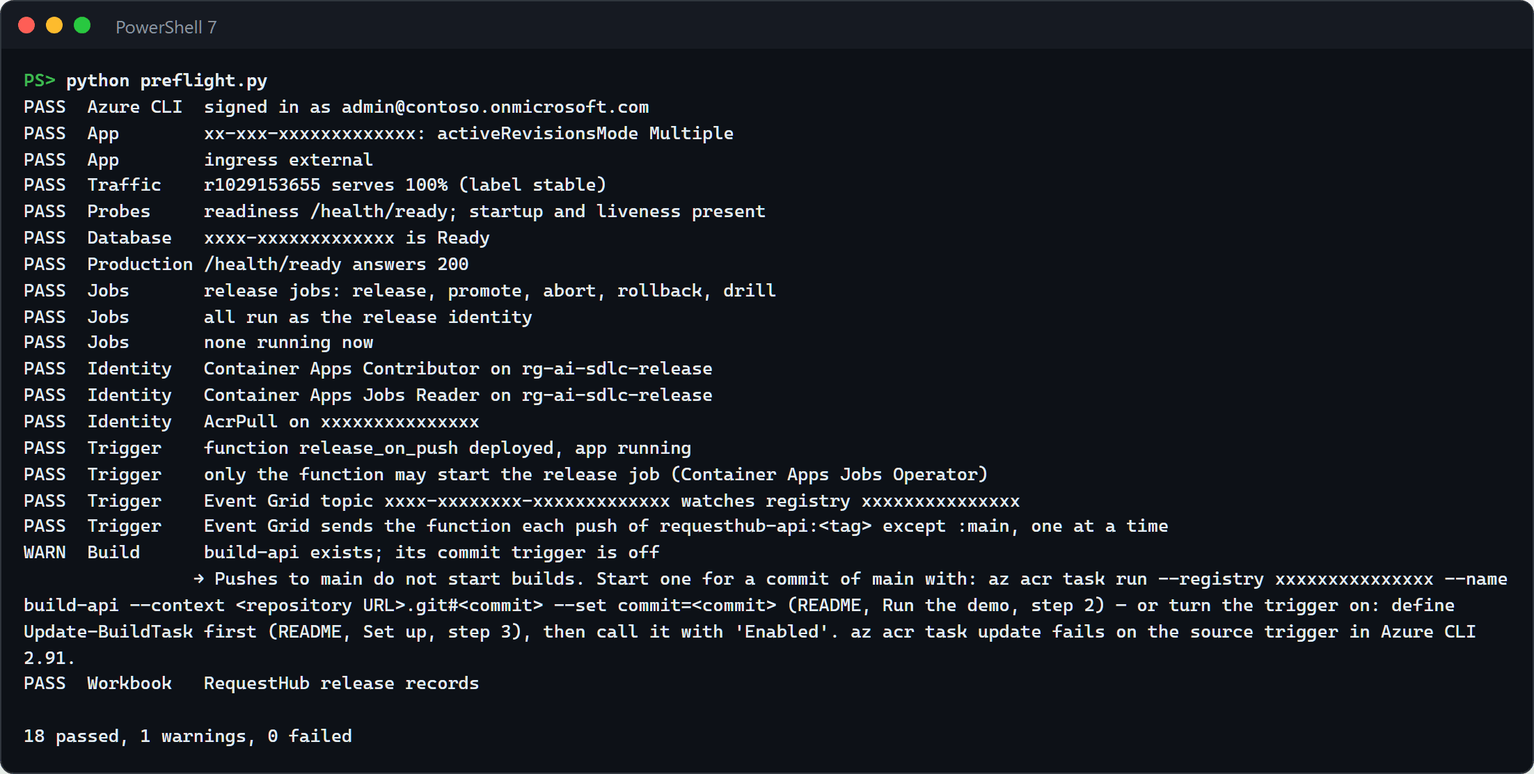
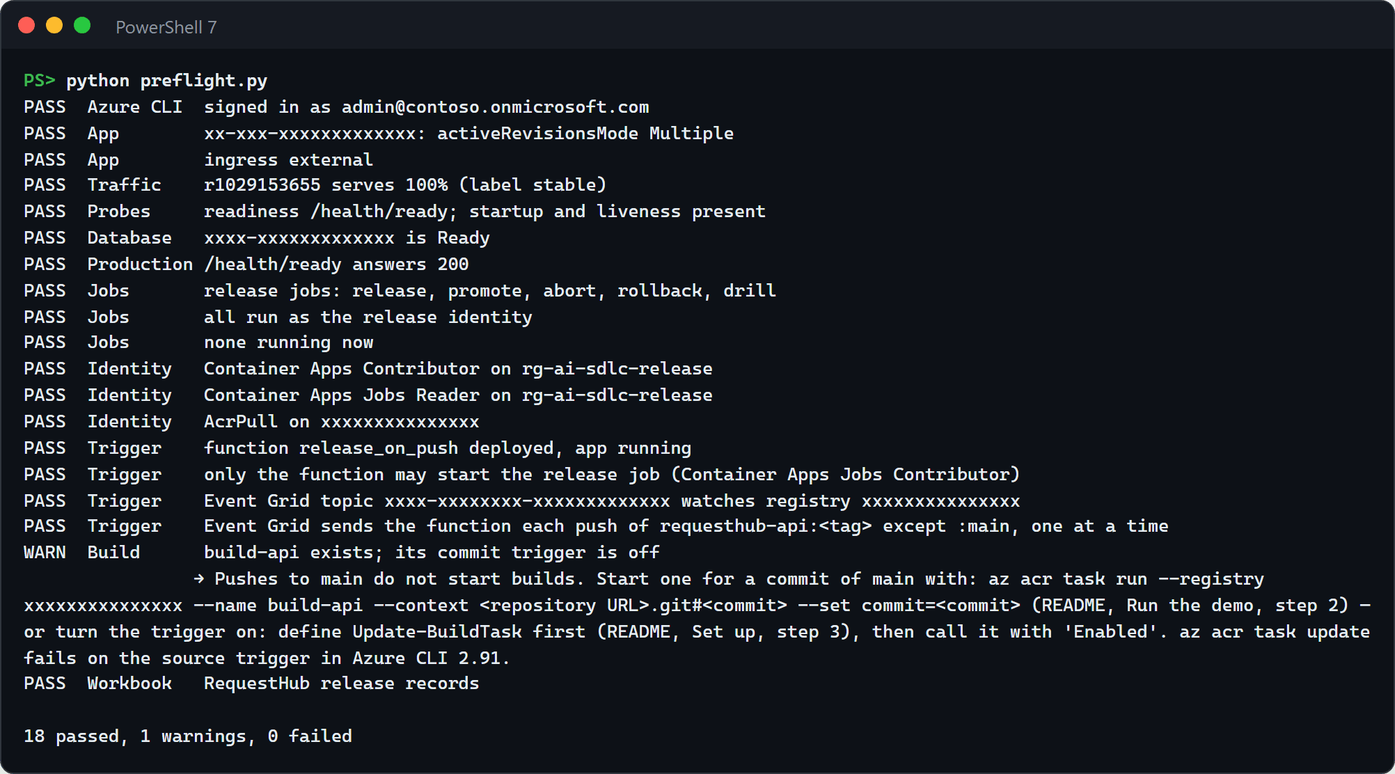
06-release-microsoft: start releases again after Azure's job-start permission change
Azure now requires write access on a Container Apps job to start it with settings of its own, so the trigger's
start with each build's digest failed with JobStartOverrideAuthorizationFailed and no release ran. The trigger's
identity now holds Container Apps Jobs Contributor on the release job only; preflight.py checks it and warns about a
leftover Jobs Operator assignment, and Troubleshooting covers the error. Verified live: a re-import started release
gybgnvt, which gated, was promoted, and rolled back. 06-release-github: its images are private packages even in a
public repository.

Changed region(s): [[0.0, 0.0917, 0.99, 0.9173], [0.0, 0.9478, 0.2475, 0.9784], [0.0309, 0.0, 0.1547, 0.0612]]

diff --git a/solutions/06-release-microsoft/test_trigger.py b/solutions/06-release-microsoft/test_trigger.py
@@ -16,9 +16,11 @@ They cover what a reviewer must be able to trust without a live run:
     repository set once, in infra/release.bicep;
   - azd runs these tests before every deploy, and connects Event Grid to the function only after every service is
     deployed;
-  - the preflight fails when the function isn't deployed or running, when anything else may start the release job (a
-    Logic App left from the earlier trigger, or another principal with Container Apps Jobs Operator), or when Event
-    Grid's topic or subscription differs from what the trigger expects.
+  - the preflight fails when the function isn't deployed or running, when it may not start the release job with a
+    build's digest (Azure requires write permission on a job to start it with settings of its own, so it needs Container
+    Apps Jobs Contributor on that job), when anything else may start the release job (a Logic App left from the
+    earlier trigger, or another principal with Container Apps Jobs Operator or Jobs Contributor), or when Event Grid's
+    topic or subscription differs from what the trigger expects.
 
 Run them from this folder (Python 3.12+, standard library only; function_app.py itself needs Azure Functions, so it is
 read, not imported):
@@ -348,6 +350,20 @@ class Wiring(unittest.TestCase):
         for name in trigger.SETTINGS:
             self.assertIn(f"{{ name: '{name}', value: ", bicep)
 
+    def test_the_function_may_start_and_write_the_release_job_alone(self):
+        # Azure requires Microsoft.App/jobs/write to start a job with settings of its own, as the trigger does with
+        # IMAGE and COMMIT: Container Apps Jobs Contributor has it, Jobs Operator doesn't.
+        import preflight
+        bicep = self.read("infra/jobs.bicep")
+        steps = bicep.split("var steps = [", 1)[1].split("]", 1)[0]
+        self.assertTrue(steps.strip().startswith("{ name: 'release',"), "jobs[0] is the release job")
+        assignment = bicep.split("resource triggerStartsRelease ", 1)[1].split("\n}\n", 1)[0]
+        self.assertIn("scope: jobs[0]", assignment)
+        self.assertIn("roleDefinitions', jobsContributor)", assignment)
+        self.assertIn("var jobsContributor = '4e3d2b60-56ae-4dc6-a233-09c8e5a82e68'", bicep)
+        self.assertEqual(bicep.count("Microsoft.Authorization/roleAssignments@"), 1, "the function's is the only grant")
+        self.assertEqual(preflight.TRIGGER_ROLE, "Container Apps Jobs Contributor")
+
     def test_azd_tests_before_every_deploy_and_connects_event_grid_after_every_service(self):
         services, separator, hooks = self.read("azure.yaml").partition("\nhooks:\n")
         self.assertTrue(separator, "the project's own hooks, which run once for the whole deploy")
@@ -369,20 +385,23 @@ class Wiring(unittest.TestCase):
 
 class TriggerCheck(unittest.TestCase):
     """preflight.py, check Trigger: the function is deployed and running; it alone may start the release job, with
-    Container Apps Jobs Operator on that job only, so a Logic App left from the earlier trigger, or any other role
-    assignment of Jobs Operator on the job or its resource group, fails, even when the function app is missing; and
-    Event Grid's topic watches this registry and its subscription sends the function each push of the API's repository
-    except :main, one event per call. Any other subscription fails."""
+    Container Apps Jobs Contributor on that job only (Azure requires write permission on a job to start it with the
+    build's digest, so Jobs Operator from an earlier deployment is not enough), so a Logic App left from the earlier
+    trigger, or any other role assignment of Jobs Operator or Jobs Contributor on the job or its resource group, fails,
+    even when the function app is missing; and Event Grid's topic watches this registry and its subscription sends the
+    function each push of the API's repository except :main, one event per call. Any other subscription fails."""
 
     RG_ID = "/subscriptions/0/resourceGroups/rg"
     APP_ID = RG_ID + "/providers/Microsoft.Web/sites/func-release-x"
     JOB_ID = RG_ID + "/providers/Microsoft.App/jobs/caj-release-x"
     REGISTRY_ID = RG_ID + "/providers/Microsoft.ContainerRegistry/registries/crx"
     FUNCTION = "principal-of-the-function"
+    CONTRIBUTOR = "Container Apps Jobs Contributor"
+    NO_DIGEST = "the function may not start the release job with a build's digest (Container Apps Jobs Contributor on it)"
 
     def setUp(self) -> None:
         self.state, self.deployed, self.workflows, self.app_missing = "Running", True, [], False
-        self.assignments = [self.operator(self.FUNCTION, self.JOB_ID)]
+        self.assignments = [self.operator(self.FUNCTION, self.JOB_ID, self.CONTRIBUTOR)]
         self.topic: dict | None = {"name": "evgt-x", "topicType": "Microsoft.ContainerRegistry.Registries",
                                    "source": self.REGISTRY_ID.lower()}
         self.subscription: dict | None = {
@@ -395,7 +414,7 @@ class TriggerCheck(unittest.TestCase):
 
     @staticmethod
     def operator(principal: str, scope: str, role: str = "Container Apps Jobs Operator") -> dict:
-        return {"id": f"{scope}/providers/Microsoft.Authorization/roleAssignments/{principal}-{role[:4]}",
+        return {"id": f"{scope}/providers/Microsoft.Authorization/roleAssignments/{principal}-{role.replace(' ', '')}",
                 "principalId": principal, "roleDefinitionName": role, "scope": scope}
 
     def check(self) -> list[tuple[str, str]]:
@@ -460,26 +479,44 @@ class TriggerCheck(unittest.TestCase):
         self.assertEqual(self.failures(), ["Logic App logic-release-x, the earlier trigger, still exists"])
 
     def test_fails_when_another_role_assignment_may_start_the_release_job(self):
-        for scope in (self.JOB_ID, self.RG_ID, self.JOB_ID.upper()):
-            with self.subTest(scope=scope):
-                other = self.operator("principal-of-a-logic-app", scope)
-                self.assignments = [self.operator(self.FUNCTION, self.JOB_ID), other]
-                failures = [(message, fix) for level, message, fix in self.check_with_fixes() if level != "PASS"]
-                self.assertEqual([message for message, _ in failures],
-                                 ["1 other role assignment may start the release job too (Container Apps Jobs Operator)"])
-                self.assertTrue(failures[0][1].endswith(f"az role assignment delete --ids {other['id']}"), failures[0][1])
+        for role in ("Container Apps Jobs Operator", self.CONTRIBUTOR):
+            for scope in (self.JOB_ID, self.RG_ID, self.JOB_ID.upper()):
+                with self.subTest(role=role, scope=scope):
+                    other = self.operator("principal-of-a-logic-app", scope, role)
+                    self.assignments = [self.operator(self.FUNCTION, self.JOB_ID, self.CONTRIBUTOR), other]
+                    failures = [(message, fix) for level, message, fix in self.check_with_fixes() if level != "PASS"]
+                    self.assertEqual([message for message, _ in failures],
+                                     [f"1 other role assignment may start the release job too ({role})"])
+                    self.assertTrue(failures[0][1].endswith(f"az role assignment delete --ids {other['id']}"), failures[0][1])
 
     def test_the_function_may_start_the_release_job_only(self):
-        # Jobs Operator on the resource group would let it start promote, abort, rollback, and drill too.
-        broad = self.operator(self.FUNCTION, self.RG_ID)
+        # Jobs Contributor on the resource group would let it start promote, abort, rollback, and drill too.
+        broad = self.operator(self.FUNCTION, self.RG_ID, self.CONTRIBUTOR)
         self.assignments = [broad]
-        self.assertEqual(self.failures(), ["the function may not start the release job (Container Apps Jobs Operator on it)",
-                                           "1 other role assignment may start the release job too (Container Apps Jobs Operator)"])
-        self.assignments = [self.operator(self.FUNCTION, self.JOB_ID), broad]
-        self.assertEqual(self.failures(), ["1 other role assignment may start the release job too (Container Apps Jobs Operator)"])
+        self.assertEqual(self.failures(), [self.NO_DIGEST,
+                                           f"1 other role assignment may start the release job too ({self.CONTRIBUTOR})"])
+        self.assignments = [self.operator(self.FUNCTION, self.JOB_ID, self.CONTRIBUTOR), broad]
+        self.assertEqual(self.failures(), [f"1 other role assignment may start the release job too ({self.CONTRIBUTOR})"])
+
+    def test_jobs_operator_alone_no_longer_starts_the_release_job_with_a_build(self):
+        # What deployments made before Azure required write permission for a start with settings gave the function.
+        self.assignments = [self.operator(self.FUNCTION, self.JOB_ID)]
+        failures = [(message, fix) for level, message, fix in self.check_with_fixes() if level != "PASS"]
+        self.assertEqual([message for message, _ in failures], [self.NO_DIGEST])
+        self.assertIn("azd deploy release", failures[0][1])
+        self.assertIn("write permission", failures[0][1])
+
+    def test_jobs_operator_left_from_an_earlier_deployment_is_reported_for_removal(self):
+        earlier = self.operator(self.FUNCTION, self.JOB_ID)
+        self.assignments = [self.operator(self.FUNCTION, self.JOB_ID, self.CONTRIBUTOR), earlier]
+        reports = [(level, message, fix) for level, message, fix in self.check_with_fixes() if "release job" in message]
+        self.assertEqual([(level, message) for level, message, _ in reports], [
+            ("WARN", "the function also keeps Container Apps Jobs Operator on the release job, from an earlier deployment"),
+            ("PASS", f"only the function may start the release job ({self.CONTRIBUTOR})")])
+        self.assertTrue(reports[0][2].endswith(f"az role assignment delete --ids {earlier['id']}"), reports[0][2])
 
     def test_principal_ids_are_compared_ignoring_case(self):
-        self.assignments = [self.operator(self.FUNCTION.upper(), self.JOB_ID.lower())]
+        self.assignments = [self.operator(self.FUNCTION.upper(), self.JOB_ID.lower(), self.CONTRIBUTOR)]
         self.assertEqual(self.failures(), [])
 
     def test_a_missing_function_app_still_checks_what_else_may_start_releases(self):
@@ -490,18 +527,19 @@ class TriggerCheck(unittest.TestCase):
         self.assertTrue(failures[0].startswith("function app func-release-x not found"), failures)
         self.assertEqual(failures[1:], [
             "Logic App logic-release-x, the earlier trigger, still exists",
-            "the function may not start the release job (Container Apps Jobs Operator on it)",
+            self.NO_DIGEST,
             "1 other role assignment may start the release job too (Container Apps Jobs Operator)",
             "Event Grid's subscription release-on-push sends events elsewhere (AzureFunction)"])
 
     def test_other_roles_and_grants_outside_the_resource_group_are_not_this_checks_business(self):
-        self.assignments = [self.operator(self.FUNCTION, self.JOB_ID), self.operator("someone", "/subscriptions/0"),
+        self.assignments = [self.operator(self.FUNCTION, self.JOB_ID, self.CONTRIBUTOR),
+                            self.operator("someone", "/subscriptions/0"),
                             self.operator("release-identity", self.RG_ID, role="Container Apps Contributor")]
         self.assertEqual(self.failures(), [])
 
     def test_fails_when_the_function_may_not_start_the_job(self):
         self.assignments = [self.operator(self.FUNCTION, self.JOB_ID, role="Reader")]
-        self.assertEqual(self.failures(), ["the function may not start the release job (Container Apps Jobs Operator on it)"])
+        self.assertEqual(self.failures(), [self.NO_DIGEST])
 
     def test_fails_when_the_topic_is_missing_or_watches_another_registry(self):
         self.topic["source"] = self.REGISTRY_ID.replace("crx", "crx2")

diff --git a/solutions/06-release-microsoft/preflight.py b/solutions/06-release-microsoft/preflight.py
@@ -15,9 +15,10 @@ when any check fails. It changes nothing.
   Identity    the release identity holds what a release needs and no more: Container Apps Contributor and Container
               Apps Jobs Reader on the resource group, and AcrPull on the registry
   Trigger     the release trigger function is deployed and running, and only it may start the release job (no Logic App
-              left from the earlier trigger, no other principal with Container Apps Jobs Operator); Event Grid's topic
-              watches this registry, and its subscription sends the function each push of the API's repository except
-              :main, one event per call
+              left from the earlier trigger, no other principal with Container Apps Jobs Operator or Jobs Contributor).
+              It needs Jobs Contributor on that job: Azure requires write permission on a job to start it with settings
+              of its own, here the build's digest. Event Grid's topic watches this registry, and its subscription sends
+              the function each push of the API's repository except :main, one event per call
   Build       the ACR task that builds main exists, no pull request can start it, and whether its commit trigger is on
   Workbook    the release-records workbook exists
 
@@ -45,6 +46,11 @@ RELEASE_ROLES = {"Container Apps Contributor": "resourcegroups/{rg}", "Container
                  "AcrPull": "/registries/"}
 BROAD_ROLES = {"Owner", "Contributor", "User Access Administrator", "Role Based Access Control Administrator", "AcrPush"}
 JOBS_OPERATOR = "Container Apps Jobs Operator"
+JOBS_CONTRIBUTOR = "Container Apps Jobs Contributor"
+STARTERS = (JOBS_OPERATOR, JOBS_CONTRIBUTOR)  # roles that may start a job: both hold Microsoft.App/jobs/*/action
+# The trigger starts the release job with the build's digest as settings, which Azure allows only with write permission
+# on the job (Microsoft.App/jobs/write): Jobs Contributor has it, Jobs Operator doesn't.
+TRIGGER_ROLE = JOBS_CONTRIBUTOR
 TRIGGER_FUNCTION = "release_on_push"  # trigger/function_app.py; Event Grid calls it (infra/release-on-push.bicep)
 SUBSCRIPTION = "release-on-push"  # Event Grid's subscription to the function (infra/release-on-push.bicep)
 IMAGE_PUSHED = "Microsoft.ContainerRegistry.ImagePushed"
@@ -224,9 +230,11 @@ def check_trigger(s: dict, jobs: dict) -> None:
 
 
 def check_who_starts_releases(s: dict, trigger: dict | None, job: dict | None) -> None:
-    """Only the function may start the release job, with Container Apps Jobs Operator on that job alone: no Logic App
-    left from the earlier trigger, and no other role assignment of Jobs Operator on the job or its resource group (on
-    the resource group, it would start the other release steps too)."""
+    """Only the function may start the release job, with Container Apps Jobs Contributor on that job alone: no Logic App
+    left from the earlier trigger, and no other role assignment that may start the job (Jobs Operator or Jobs
+    Contributor) on the job or its resource group (on the resource group, it would start the other release steps too).
+    The function starts the job with the build's digest as settings, which Azure allows only with write permission on
+    the job: Jobs Operator, which earlier deployments gave the function, is not enough."""
     workflows = az("resource", "list", "--resource-group", s["rg"], "--resource-type", "Microsoft.Logic/workflows") or []
     for workflow in workflows:
         if str(workflow.get("name", "")).startswith(LEGACY_TRIGGER):
@@ -238,21 +246,29 @@ def check_who_starts_releases(s: dict, trigger: dict | None, job: dict | None) -
     job_id = job["id"].lower()
     group = job_id.split("/providers/", 1)[0]
     principal = str(((trigger or {}).get("identity") or {}).get("principalId") or "").lower()
-    operators = [a for a in az("role", "assignment", "list", "--scope", job["id"], "--include-inherited")
-                 if a.get("roleDefinitionName") == JOBS_OPERATOR and str(a.get("scope") or "").lower().startswith(group)]
-    own = [a for a in operators if principal and str(a.get("principalId") or "").lower() == principal
-           and str(a.get("scope") or "").lower() == job_id]
-    others = [a for a in operators if a not in own]
+    starters = [a for a in az("role", "assignment", "list", "--scope", job["id"], "--include-inherited")
+                if a.get("roleDefinitionName") in STARTERS and str(a.get("scope") or "").lower().startswith(group)]
+    mine = [a for a in starters if principal and str(a.get("principalId") or "").lower() == principal
+            and str(a.get("scope") or "").lower() == job_id]
+    own = [a for a in mine if a.get("roleDefinitionName") == TRIGGER_ROLE]
+    earlier = [a for a in mine if a not in own]
+    others = [a for a in starters if a not in mine]
     if not own:
-        report("FAIL", "Trigger", f"the function may not start the release job ({JOBS_OPERATOR} on it)",
-               "Run `azd deploy release` in this folder.")
+        report("FAIL", "Trigger", f"the function may not start the release job with a build's digest ({TRIGGER_ROLE} on it)",
+               "Run `azd deploy release` in this folder. Azure requires write permission on a job to start it with "
+               "settings of its own, as the trigger does with each build's digest.")
+    elif earlier:
+        report("WARN", "Trigger", f"the function also keeps {JOBS_OPERATOR} on the release job, from an earlier deployment",
+               f"{TRIGGER_ROLE} covers what it needs. Remove the earlier one: az role assignment delete --ids "
+               + " ".join(str(a.get("id")) for a in earlier))
     if others:
+        roles = ", ".join(sorted({str(a.get("roleDefinitionName")) for a in others}))
         report("FAIL", "Trigger", f"{len(others)} other role assignment{'s' if len(others) > 1 else ''} may start the release "
-                                  f"job too ({JOBS_OPERATOR})",
+                                  f"job too ({roles})",
                "Only the trigger function's, on the release job itself, should. Remove the others: az role assignment "
                "delete --ids " + " ".join(str(a.get("id")) for a in others))
     if own and not others:
-        report("PASS", "Trigger", f"only the function may start the release job ({JOBS_OPERATOR})")
+        report("PASS", "Trigger", f"only the function may start the release job ({TRIGGER_ROLE})")
 
 
 def check_events(s: dict, function_id: str) -> None:

diff --git a/solutions/06-release-microsoft/test_release.py b/solutions/06-release-microsoft/test_release.py
@@ -2,6 +2,8 @@
 
 They cover what a reviewer must be able to trust without a live run:
   - only builds of requesthub-api from the API's own registry are released, whatever an event or a person names;
+  - an image is pinned by the digest the registry reports, an OCI image index with attestations (a build of GitHub
+    Actions, imported into the registry) included, and its commit is read from its linux/amd64 image;
   - nothing untrusted can print a line that looks like a release record;
   - promote needs the gate's verdict for exactly this candidate and image, with the standard bake;
   - a release that fails removes its own candidate, even while another step waits for its turn;
@@ -182,6 +184,56 @@ class ImageReferences(unittest.TestCase):
         problem = release.image_problem(f"{REGISTRY}/evil:x\nRELEASE-RECORD {{\"step\":\"promote\"}}", self.registries)
         self.assertNotIn("\n", problem)
         self.assertIn("\\n", problem)
+
+
+class ImageResolution(unittest.TestCase):
+    """Which build an image is, read from the registry itself. A build made with docker buildx and SBOM and provenance
+    attestations, as GitHub Actions builds a release candidate (06-release-github), is an OCI image index, and
+    az acr import keeps its digest: the release pins the index's own digest, and reads the commit from its linux/amd64
+    image, never from an attestation manifest."""
+
+    BASE = f"https://{REGISTRY}/v2/requesthub-api"
+    IMAGE = "sha256:" + "11" * 32
+    ATTESTATION = "sha256:" + "22" * 32
+    CONFIG = "sha256:" + "33" * 32
+
+    def resolve(self, reference: str, responses: dict[str, tuple[int, dict | None, dict]]) -> tuple[tuple[str, str], list[str]]:
+        calls: list[str] = []
+
+        def fake_http(method: str, url: str, **kwargs) -> release.Response:
+            calls.append(url)
+            status, body, headers = responses[url]
+            return release.Response(status, b"" if body is None else json.dumps(body).encode(), headers, 1.0)
+        with mock.patch.object(release, "registry_token", return_value="token"), \
+                mock.patch.object(release, "http", side_effect=fake_http):
+            return release.resolve_image(reference), calls
+
+    def image(self, build_sha: str) -> dict[str, tuple[int, dict | None, dict]]:
+        """The linux/amd64 image and its configuration, served from storage through a redirect as ACR does."""
+        return {f"{self.BASE}/manifests/{self.IMAGE}": (200, {"config": {"digest": self.CONFIG}}, {}),
+                f"{self.BASE}/blobs/{self.CONFIG}": (307, None, {"location": "https://storage.example/config"}),
+                "https://storage.example/config": (200, {"config": {"Env": ["PATH=/usr/bin", f"BUILD_SHA={build_sha}"]}}, {})}
+
+    def test_an_index_with_attestations_is_pinned_by_its_own_digest_and_read_from_its_image(self):
+        index = {"mediaType": "application/vnd.oci.image.index.v1+json", "manifests": [
+            {"digest": self.ATTESTATION, "platform": {"architecture": "unknown", "os": "unknown"},
+             "annotations": {"vnd.docker.reference.type": "attestation-manifest", "vnd.docker.reference.digest": self.IMAGE}},
+            {"digest": self.IMAGE, "platform": {"architecture": "amd64", "os": "linux"}}]}
+        for reference in (f"{REGISTRY}/requesthub-api@{DIGEST}", f"{REGISTRY}/requesthub-api:{SHA}"):
+            with self.subTest(reference=reference):
+                ref = reference.rsplit("@", 1)[-1] if "@" in reference else SHA
+                responses = {f"{self.BASE}/manifests/{ref}": (200, index, {"docker-content-digest": DIGEST}), **self.image(SHA)}
+                (image, commit), calls = self.resolve(reference, responses)
+                self.assertEqual(image, f"{REGISTRY}/requesthub-api@{DIGEST}")
+                self.assertEqual(commit, SHA)
+                self.assertNotIn(f"{self.BASE}/manifests/{self.ATTESTATION}", calls)
+
+    def test_a_single_image_is_read_directly_and_a_local_build_reports_no_commit(self):
+        responses = {f"{self.BASE}/manifests/main": (200, {"config": {"digest": self.CONFIG}}, {"docker-content-digest": DIGEST}),
+                     **self.image("local")}
+        responses.pop(f"{self.BASE}/manifests/{self.IMAGE}")
+        (image, commit), _ = self.resolve(f"{REGISTRY}/requesthub-api:main", responses)
+        self.assertEqual((image, commit), (f"{REGISTRY}/requesthub-api@{DIGEST}", ""))
 
 
 class PrintableRecords(Quiet):

diff --git a/solutions/06-release-microsoft/README.md b/solutions/06-release-microsoft/README.md
@@ -51,7 +51,7 @@ sequenceDiagram
 ```
 
 - **Azure Container Registry** builds each commit of `main` once, with an [ACR task](acr-build.yaml) that GitHub's webhook starts. A person creates the task once, with a fine-grained token limited to this repository. Only commits to `main` start it, never a pull request: a pull request trigger would build a fork's code too, and every push starts a release. `preflight.py` fails if the task has one.
-- **Event Grid and an Azure Function** are the trigger. A push of `requesthub-api:<commit>` reaches the [release trigger](trigger/function_app.py), a Python function on the Flex Consumption plan, which starts the release job with the image's digest. Its managed identity may start that job and nothing else. It checks every event first, in [plain Python](trigger/release_trigger.py) with [unit tests](test_trigger.py): from this registry, an image push, the API's registry host and repository, a `sha256` digest, and a tag that is a commit. An event that fails a check starts nothing, and the invocation fails with the name of each failed check, in the function's **Invocations** and in Application Insights. The function has its own small virtual network: it reaches its storage, which a policy keeps off the internet, through a private endpoint.
+- **Event Grid and an Azure Function** are the trigger. A push of `requesthub-api:<commit>` reaches the [release trigger](trigger/function_app.py), a Python function on the Flex Consumption plan, which starts the release job with the image's digest. Its managed identity may start that job, and only that job. Azure requires write permission on a job to start it with settings of its own, such as the digest, so the identity holds Container Apps Jobs Contributor on the release job. The function checks every event first, in [plain Python](trigger/release_trigger.py) with [unit tests](test_trigger.py): from this registry, an image push, the API's registry host and repository, a `sha256` digest, and a tag that is a commit. An event that fails a check starts nothing, and the invocation fails with the name of each failed check, in the function's **Invocations** and in Application Insights. The function has its own small virtual network: it reaches its storage, which a policy keeps off the internet, through a private endpoint.
 - **Container Apps jobs** run [`release.py`](release.py), one job per step, all from one image. They run as the release identity, a managed identity with three roles: Container Apps Contributor and Container Apps Jobs Reader on the resource group, and AcrPull on the registry. One step runs at a time, first come, first served: a release waits for the steps that started before it, and any other step refuses while an earlier one runs. A pushed image starts at most one release: Event Grid delivers each event at least once, and when a push of the same image starts the release job again, the later execution finds the earlier one in the job's execution history and releases nothing. The earlier execution owns that image, whether it released the build or not. A release whose gate fails removes its own candidate right away, even while another step waits. When the gate passes, it records its verdict on the app (a tag naming the revision, its image digest, and how long it baked). Promote moves traffic only to the candidate and image that verdict names, after the standard 60-second bake, and only within 24 hours.
 - **Azure Container Apps** runs the API in multiple-revision mode. Revisions get **labels** with their own URLs (`https://<app>---candidate.<domain>`), and traffic weights decide which revision users reach. The readiness probe (`/health/ready`) is the platform's verdict on each revision.
 - **Azure Monitor** keeps the evidence. Each step writes its release record to Log Analytics, and the [workbook](infra/release-records.workbook.json) shows the records, who started each step (from the Activity log), and every traffic change (from Azure Resource Graph).
@@ -339,7 +339,7 @@ Every step also runs from a terminal signed in with `az login`, for example `pyt
 - **People decide, and Azure records it.** Promote, abort, rollback, and drill are started by a person, and the Activity log names them; releases are started by the trigger's managed identity. Promote acts only on the gate's verdict for that exact candidate and image. One step runs at a time: in our tests, a promote started during a release refused with "A release step is running".
 - **AI explains; it doesn't act.** Azure Copilot gave the release manager a plain-language explanation and next checks. Its answer was general, so the gate's recorded evidence is what pins the cause: keep both in the conversation.
 - **Recovery is a traffic change, not a redeploy.** Promotion and rollback each switched traffic in 13 to 16 seconds, with the same checks afterwards.
-- **Least privilege.** The trigger function can start the release job and nothing else, and it reads and writes only its own storage. The release identity manages container apps, reads job executions, and pulls images; it can't push images or assign roles. The build task's token can read this repository's contents and manage its webhooks, nothing else.
+- **Least privilege.** The trigger function can start the release job, and only that job, and it reads and writes only its own storage. Because it starts the job with the build's digest, it may also change that job: Azure requires write permission on a job to start it with settings of its own. Its identity can't reach the app, the other jobs, or the registry. The release identity manages container apps, reads job executions, and pulls images; it can't push images or assign roles. The build task's token can read this repository's contents and manage its webhooks, nothing else.
 - **What a rollback does not undo.** Every revision shares one PostgreSQL database, and a candidate runs its database migrations when it starts, even without traffic. Keep migrations backward compatible so the previous revision keeps working. A revision switch is not a database rollback.
 
 ## Reset and clean up
@@ -377,7 +377,7 @@ In GitHub, delete the build task's token (**Settings** → **Developer settings*
    - in `release.bicep`, the `repository` variable to your image name: the Event Grid filter and the function's check both use it. The trigger's network links to the app's private DNS zone for Blob storage; if your platform has none, declare the zone in `release.bicep` instead.
 
    After each change to `release.py` or `trigger/`, run `python -m unittest -v` in the folder: the tests check the safety rules without Azure. Then run `azd deploy release` or `azd deploy trigger`.
-3. **Grant the least access.** The jobs' identity needs Container Apps Contributor and Container Apps Jobs Reader on the app's resource group and AcrPull on the registry, plus whatever your smoke test signs in to. The trigger function's identity needs Container Apps Jobs Operator on the release job only (`jobs.bicep` grants it) and Storage Blob Data Owner on its own storage account (`release.bicep`).
+3. **Grant the least access.** The jobs' identity needs Container Apps Contributor and Container Apps Jobs Reader on the app's resource group and AcrPull on the registry, plus whatever your smoke test signs in to. The trigger function's identity needs Container Apps Jobs Contributor on the release job only (`jobs.bicep` grants it): Azure requires write permission on a job to start it with settings of its own, such as the build's digest. It also needs Storage Blob Data Owner on its own storage account (`release.bicep`).
 4. **Create the build task** with a fine-grained token for your repository, as in *Set up*, and run the preflight.
 5. **Releases that change configuration.** `deploy` copies the stable revision's configuration and changes only the image, so a release changes one thing. If a release must also change settings, deploy the candidate from your Bicep with traffic pinned to the stable revision.
 6. **Background workers** that do not serve traffic can stay in single-revision mode and update after the API is promoted.
@@ -389,6 +389,7 @@ In GitHub, delete the build task's token (**Settings** → **Developer settings*
 - **The release job ends with "already serves users: nothing to release".** The pushed build is the one users have, for example a second build of the same commit. Nothing is wrong. To show a change, run the rollback job first, or run the release job yourself to release the newest build (`requesthub-api:main`).
 - **The release job ends with "Execution … already got a push of this image".** Event Grid delivers each event at least once, so now and then one push starts the release job twice; pushing the same image again, for example with `az acr import`, does too. The later execution finds the earlier one in the job's execution history and releases nothing: the earlier one owns that image. The message names it and how it ended. Open it in the release job's **Execution history** if it failed, and to release the build after a failure or an abort, run the release job yourself.
 - **A pushed build starts no release job.** Open the trigger function → **release_on_push** → **Invocations**, or run the preflight. A failed invocation names each check the event failed, or the call Azure refused with its HTTP status and error code (for example `Could not start the release job: HTTP 403 AuthorizationFailed`), and Event Grid delivers a failed event again, up to five times in an hour. No invocation at all means Event Grid isn't connected to the function: run `azd deploy trigger`, after which azd connects it.
+- **Every pushed build fails with `Could not start the release job: HTTP 400 JobStartOverrideAuthorizationFailed`.** Since November 2026, Azure requires write permission on a job to start it with settings of its own, as the trigger does with each build's digest. Environments deployed earlier gave the function Container Apps Jobs Operator, which only starts the job. Run `azd deploy release` in this folder, which gives it Container Apps Jobs Contributor on the release job, then `python preflight.py`, and delete the earlier role assignment with the command it prints. Then push the build again, or run the release job yourself.
 - **The preflight fails: "Logic App logic-release-…, the earlier trigger, still exists", or another role assignment may start the release job.** An environment deployed before the trigger became a function keeps the Logic App, because `azd provision` adds and updates resources but deletes none, and its Jobs Operator role on the release job. Run the commands the preflight prints: they delete the Logic App and that role assignment.
 - **A step refuses with "A release step is running".** One step runs at a time. Wait for the running one to finish (a release takes about 2.5 minutes), then start the step again. Any execution that hasn't succeeded, failed, or stopped counts as running. An execution stuck in another state stops counting once its job's time limit (30 minutes for release and drill, 15 for the others) plus 15 minutes has passed.
 - **Promote refuses: "the gate has not passed it", or the verdict is for another candidate or image, older than 24 hours, or from a gate with a bake shorter than 60 seconds.** Promote moves traffic only to a candidate the gate passed with the standard bake, as recorded on the app. `python release.py gate --bake 0` from a terminal is fine for trying things out, but promote won't accept it. Run the release job again: it gates the build again.

diff --git a/solutions/06-release-github/README.md b/solutions/06-release-github/README.md
@@ -106,7 +106,7 @@ Run once from the repository root.
 
    `gh secret list` now shows `COPILOT_GITHUB_TOKEN`. In an organization with Copilot and centralized billing, add `copilot-requests: write` to the workflow's permissions instead and recompile; no token is needed.
 
-The workflows, skills, and agent are already active because the repository's root `.github/` folder mirrors them. The container images are created in GitHub Container Registry on the first run, private like the repository.
+The workflows, skills, and agent are already active because the repository's root `.github/` folder mirrors them. The container images are created in GitHub Container Registry on the first run, as private packages, even in a public repository.
 
 ## Before each session
 
